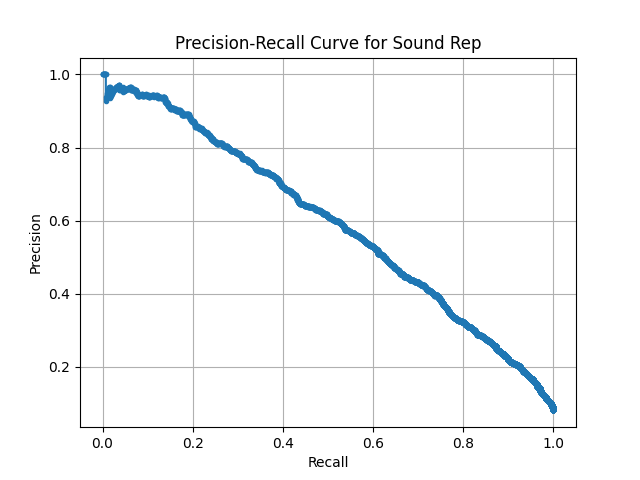
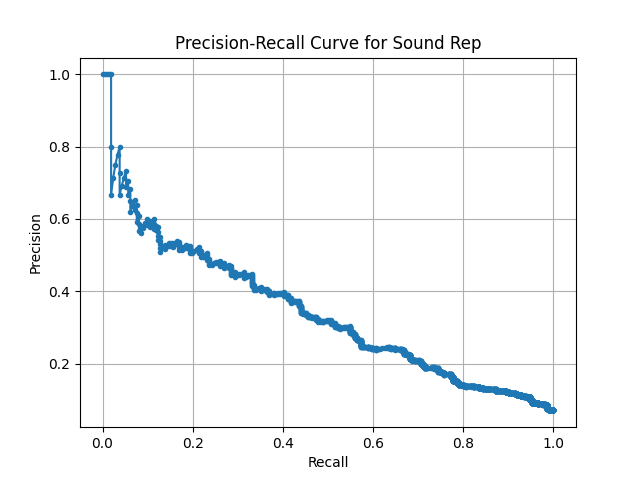
11/13/2025 - Actual Commit 3 - Attempt 6
Numbered the commits off - named first commit of the day "commit 2", so... yeah.

Results for Attempt 6.

Changed region(s): [[0.0625, 0.125, 0.9062, 0.875]]

diff --git a/interspeech2024-code/sed/wenet/wenet/bin/compute_thresholds.py b/interspeech2024-code/sed/wenet/wenet/bin/compute_thresholds.py
@@ -124,7 +124,7 @@ def main():
             target = target.to(device).int()
 
             logits = model.decode(feats, feats_lengths)
-            probs = torch.sigmoid(logits).cpu().numpy()
+            probs = logits.cpu().numpy()
             labels = target.cpu().numpy()
 
             all_probs.append(probs)  # shape (batch_size, num_classes)
